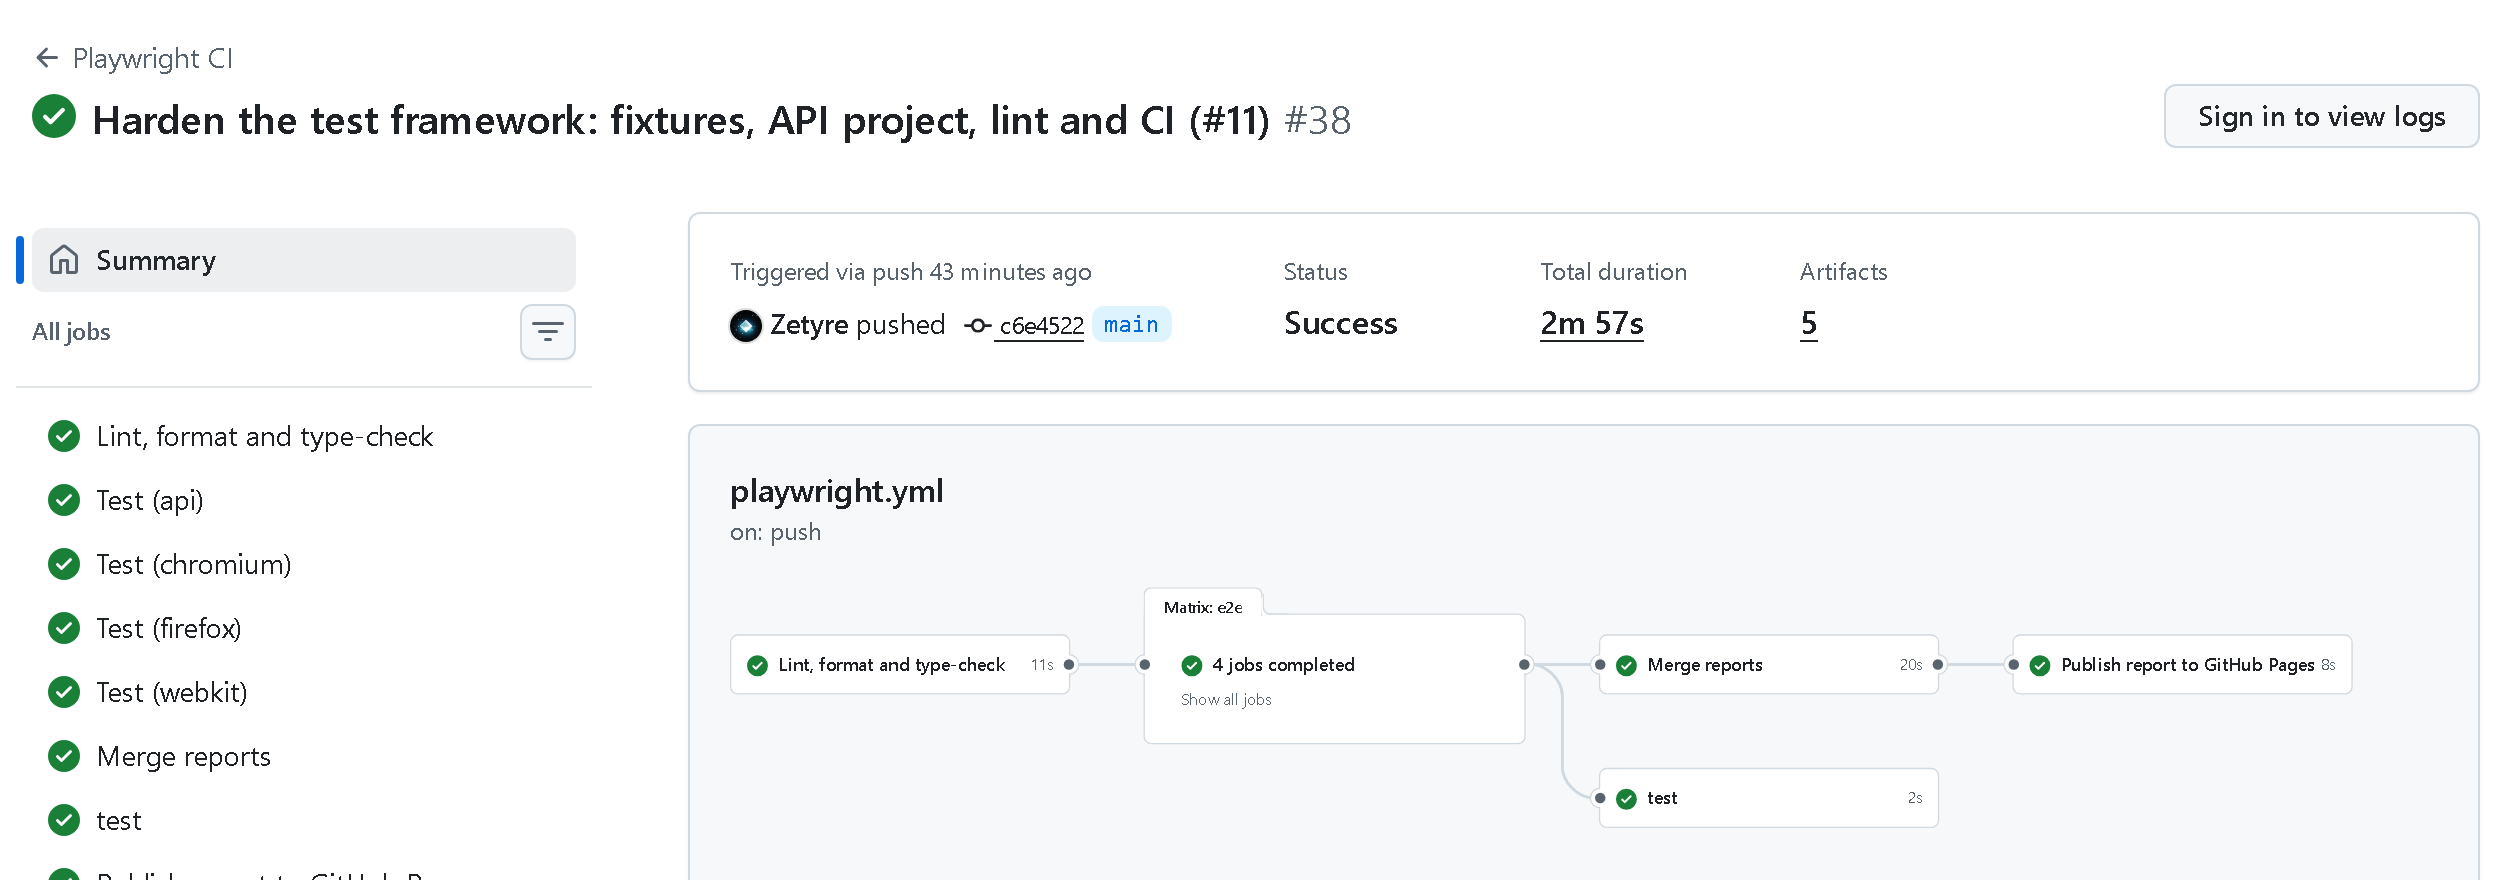
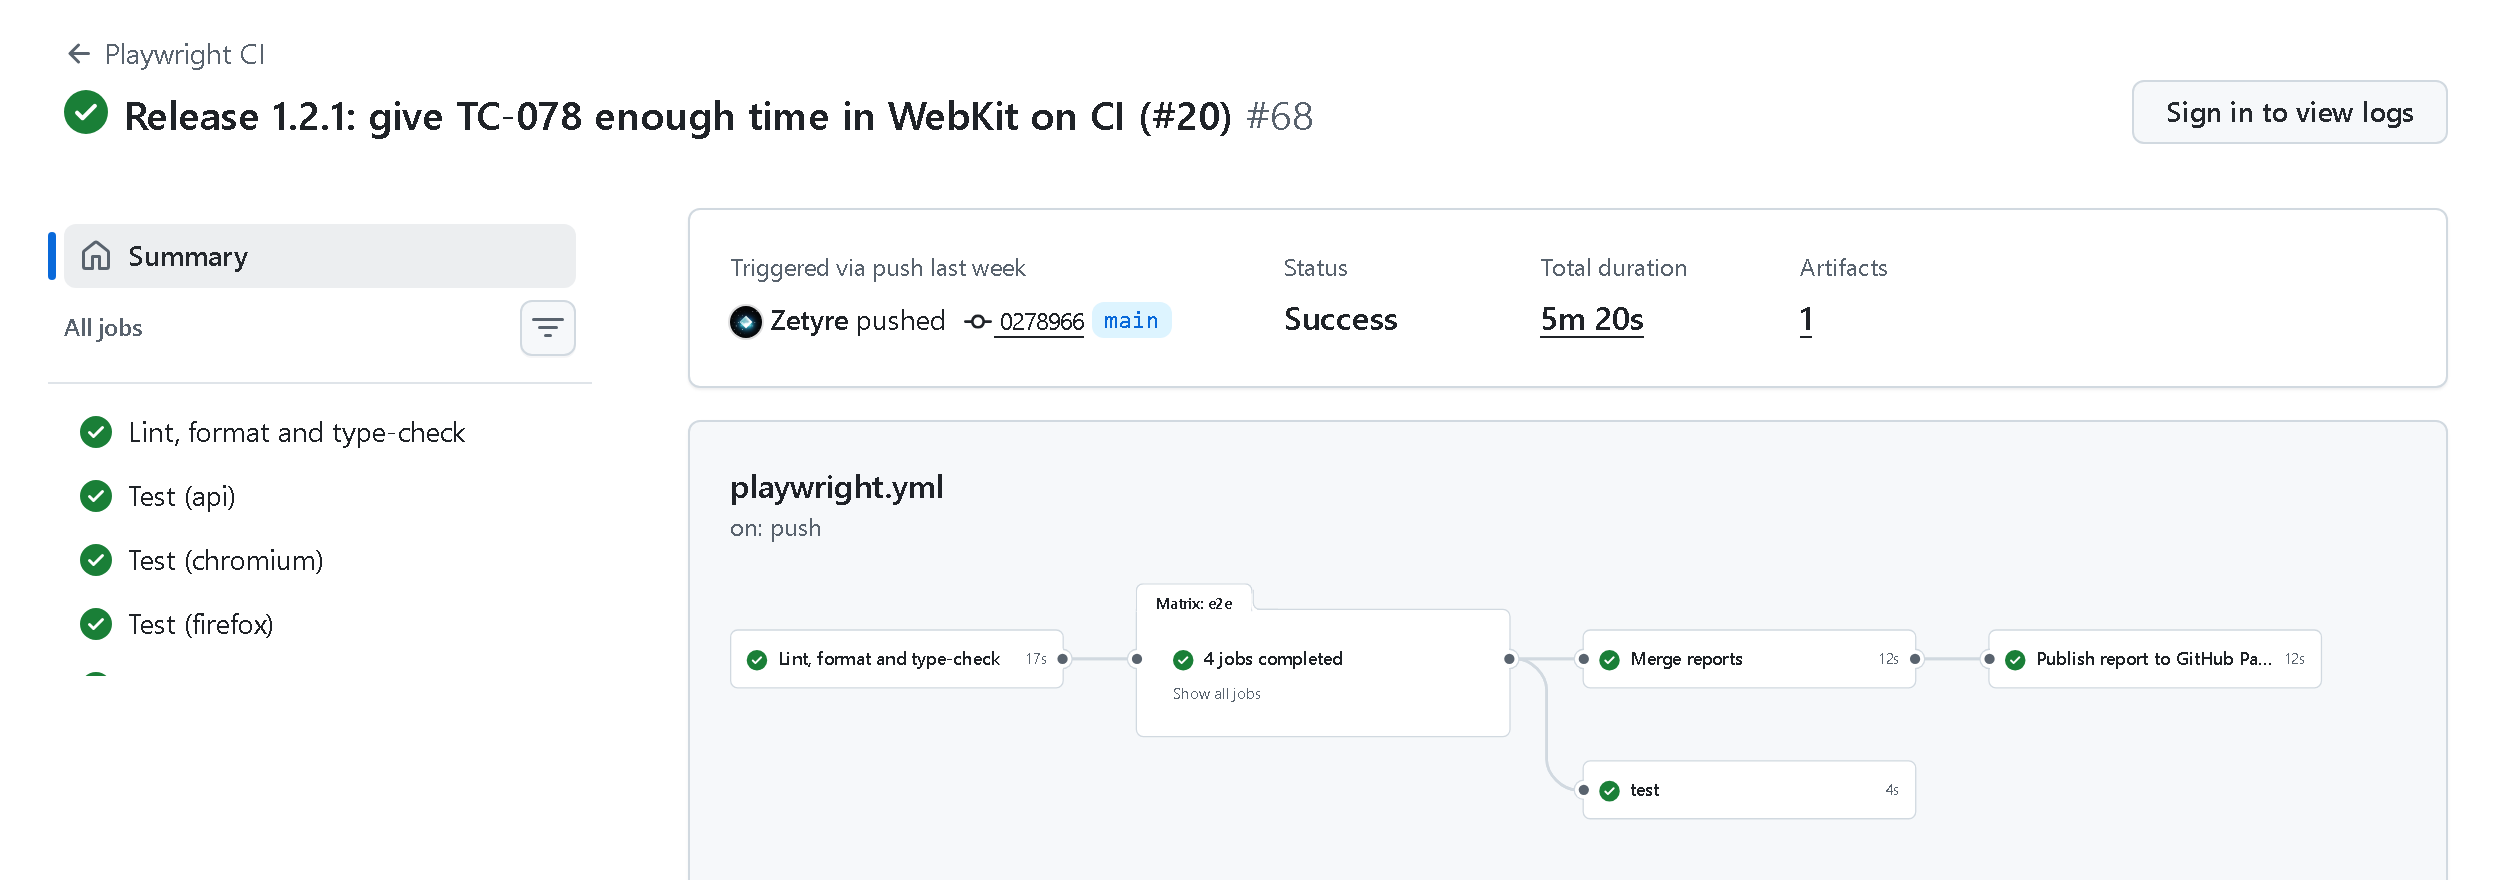
Refresh the README screenshots from the v1.2.1 runs (#23)
The previous ones predated v1.2.0: the HTML report showed the retired TC-001 and 76 runs, and the archive image held sample data. The new ones come from the v1.2.1 push run (#68) and the latest nightly report (#77, 179 passed).

diff --git a/README.md b/README.md
@@ -42,9 +42,9 @@ a suite whose result you can trust.
 | ------------------------------------------------------------------------------------------------------------------------------------- |
 | ![GitHub Actions run with the lint job, four parallel browser jobs, report merge, publish and test gate](docs/images/ci-pipeline.png) |
 
-| HTML report: every test tagged and traceable                                                                           | Report archive on GitHub Pages                                                                         |
-| ---------------------------------------------------------------------------------------------------------------------- | ------------------------------------------------------------------------------------------------------ |
-| ![Playwright HTML report listing the login and sign-up tests with browser and tag labels](docs/images/html-report.png) | ![Report archive listing recent runs with pass, fail and flaky counts](docs/images/report-archive.png) |
+| HTML report: every test tagged and traceable                                                                                              | Report archive on GitHub Pages                                                                         |
+| ----------------------------------------------------------------------------------------------------------------------------------------- | ------------------------------------------------------------------------------------------------------ |
+| ![Playwright HTML report filtered to Chromium, with browser, tag, known-issue and bug or observation labels](docs/images/html-report.png) | ![Report archive listing recent runs with pass, fail and flaky counts](docs/images/report-archive.png) |
 
 ## Run it locally
 
